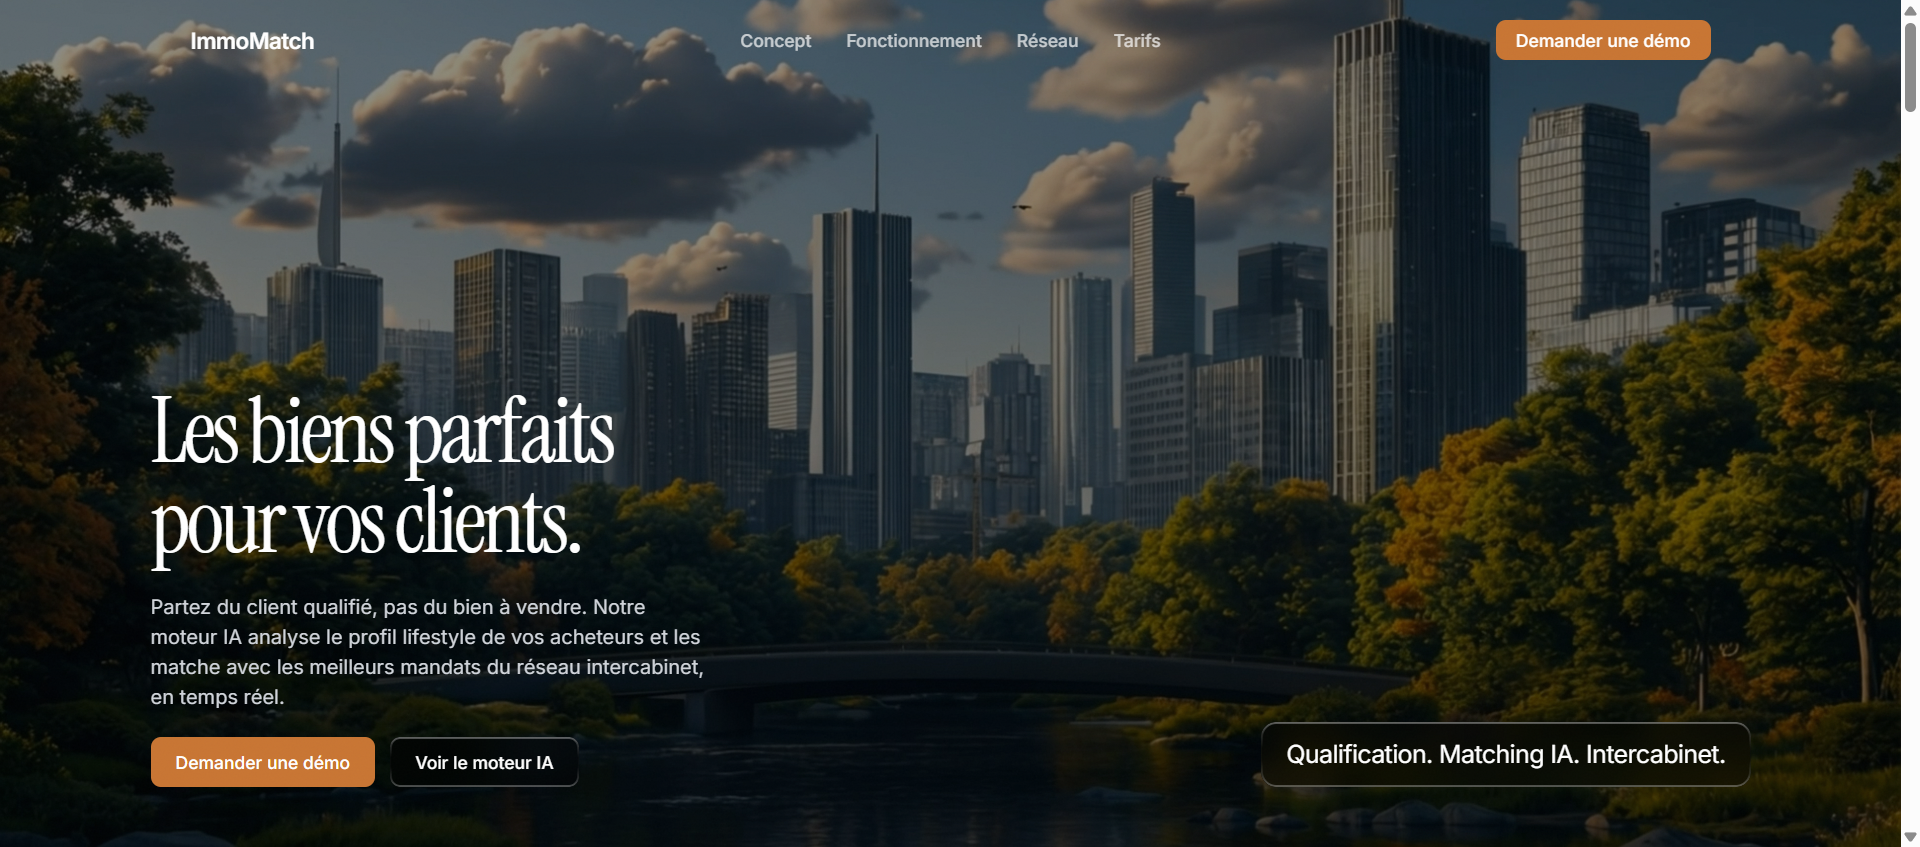
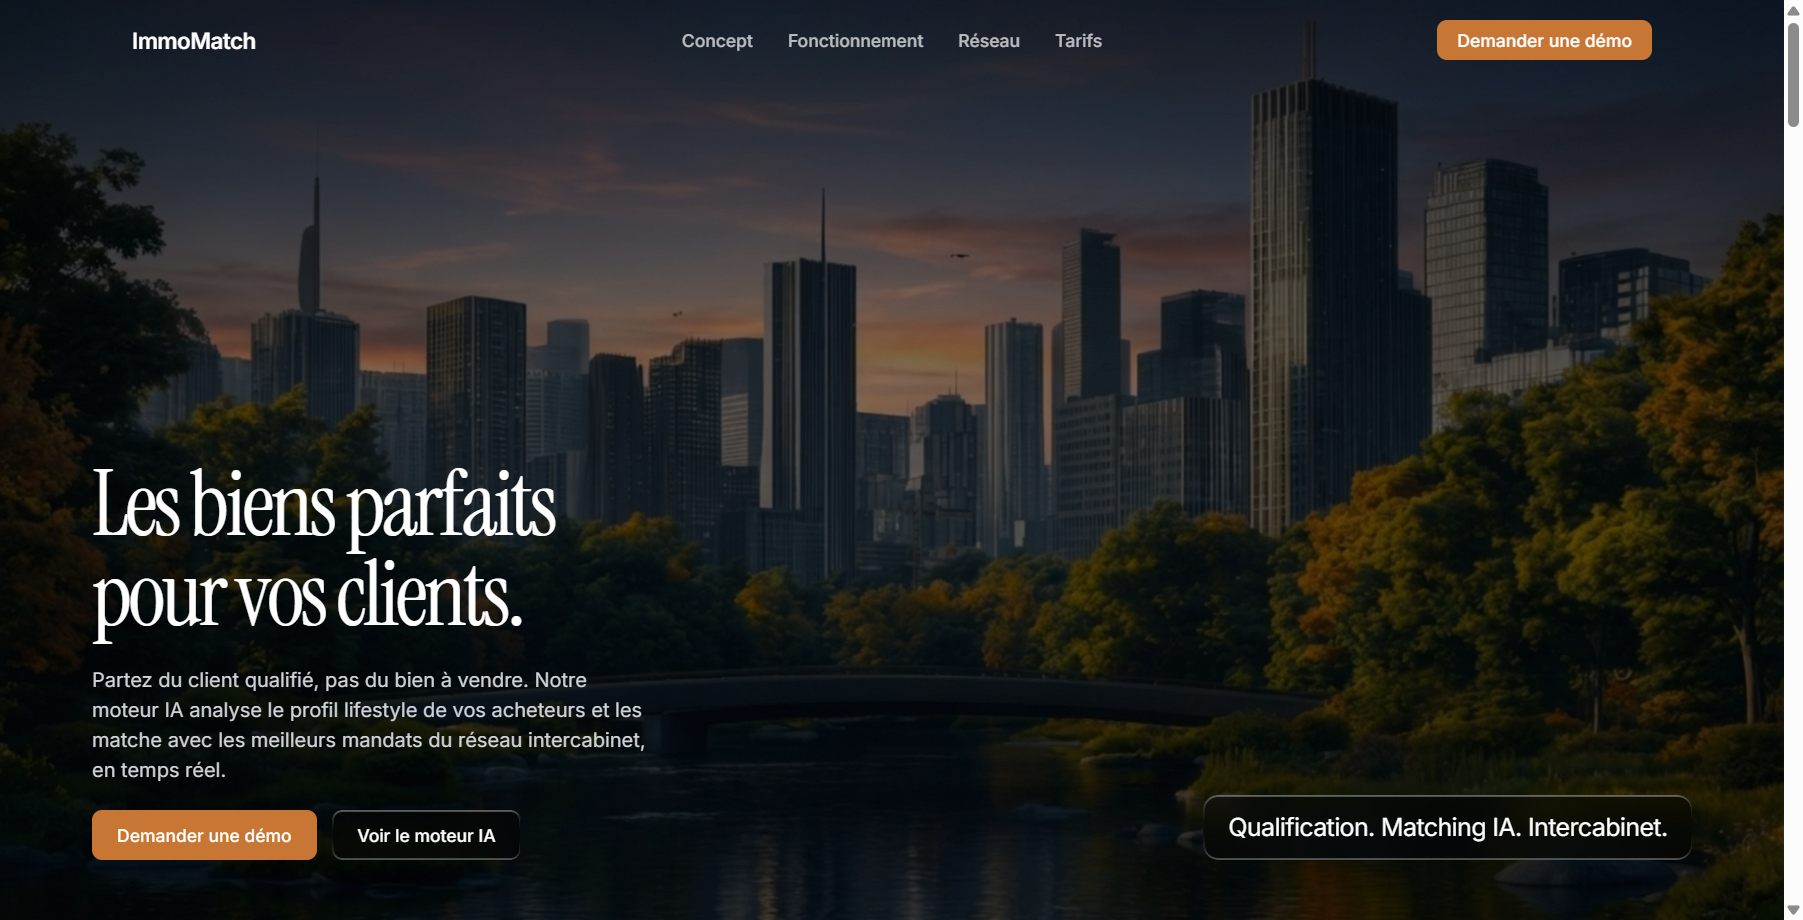
fix: ImmoMatch not clickable + retake screenshots (dashboard ImmoV2)

diff --git a/app/realisations/content.tsx b/app/realisations/content.tsx
@@ -34,7 +34,7 @@ const projects = [
     what: "Agent IA pour le matching immobilier",
     how: "Site vitrine Next.js avec animations Framer Motion",
     tags: ["Next.js", "Framer Motion", "IA"],
-    url: "https://immomatchsiteweb.vercel.app/",
+    url: null,
     category: "site" as const,
     image: "/realisations/immomatch.png",
   },
